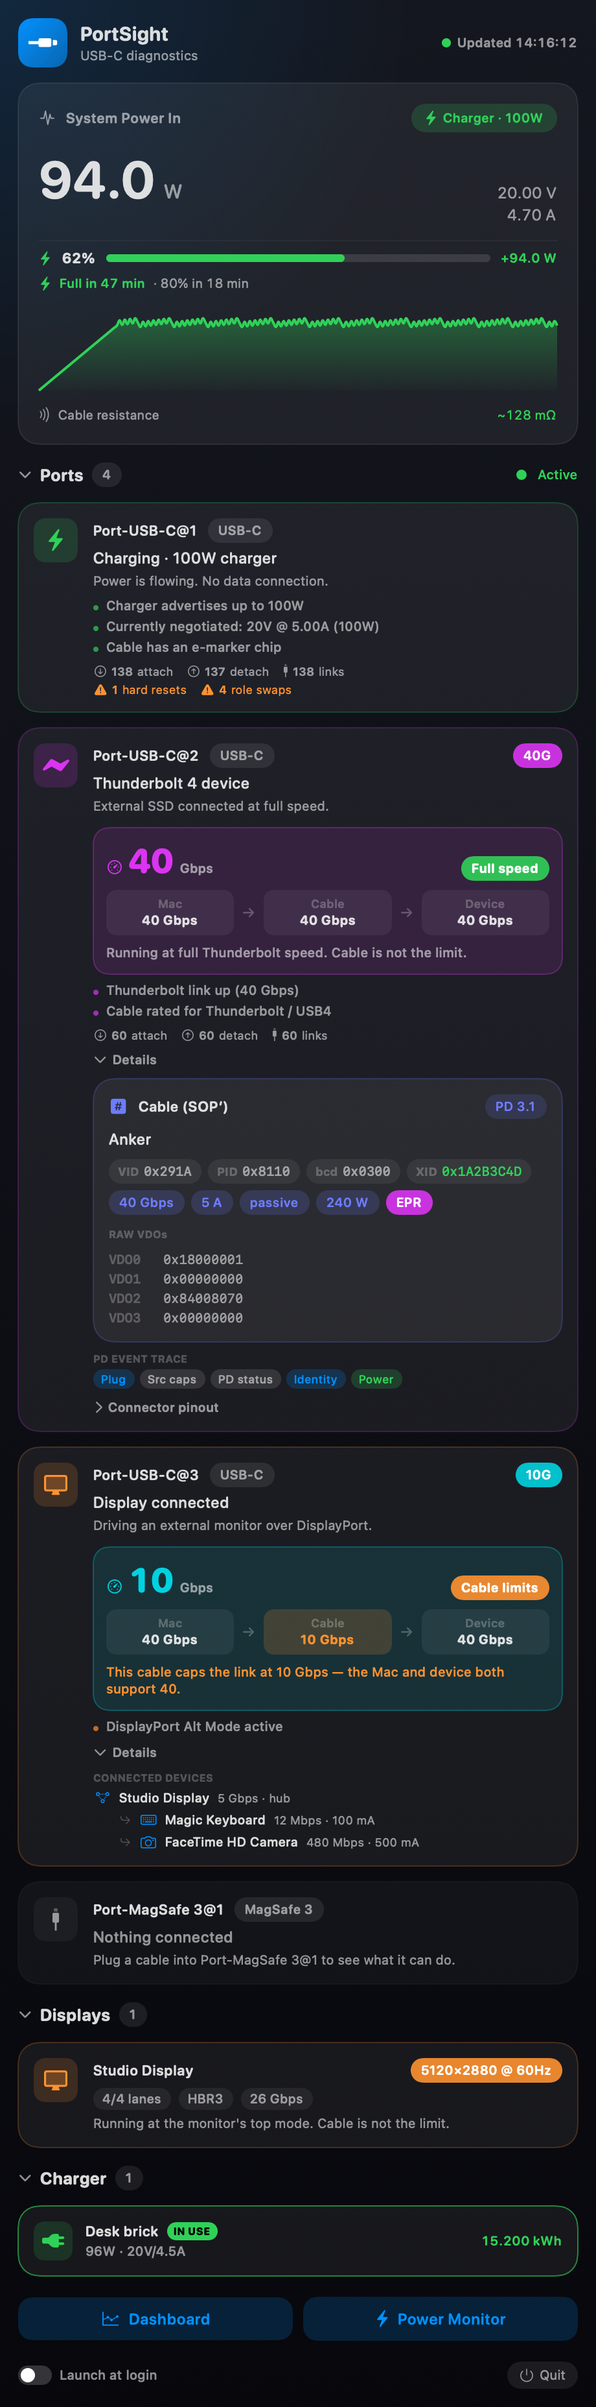
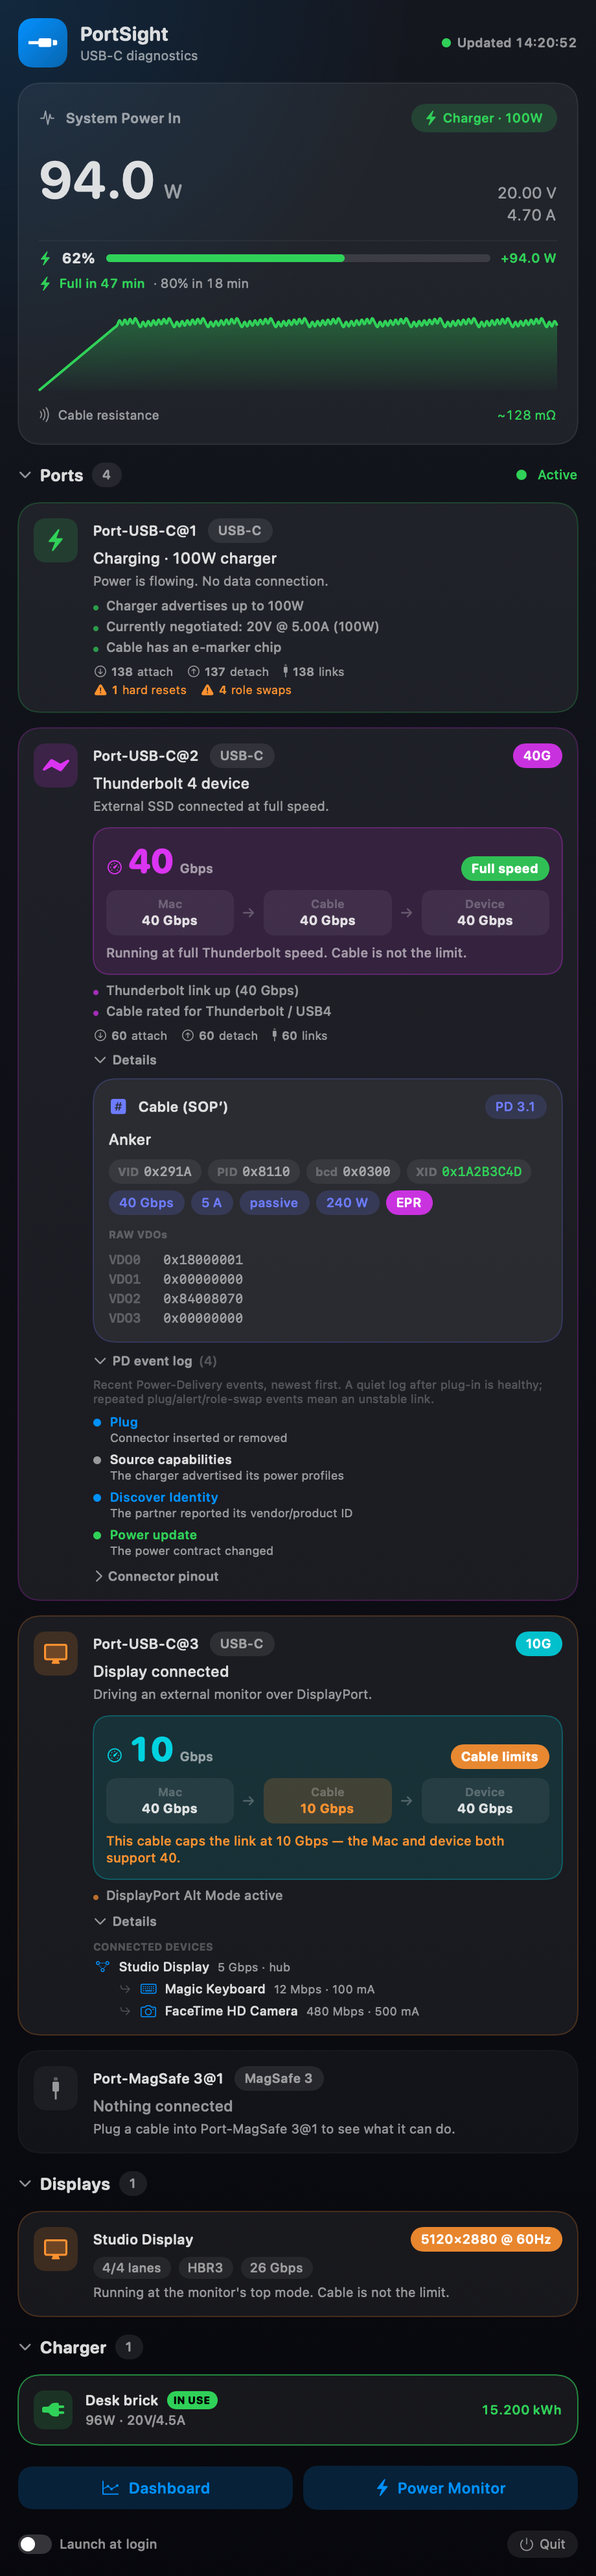
PD event log: own collapsible sub-section, verbose with plain-English descriptions

diff --git a/Sources/CableProUI/SnapshotModel.swift b/Sources/CableProUI/SnapshotModel.swift
@@ -242,6 +242,7 @@ struct PortVM: Identifiable {
 struct PortEventVM: Identifiable, Equatable {
     let id: Int
     let label: String
+    let detail: String
     let severity: SpeedVM.Severity
 }
 
@@ -535,8 +536,8 @@ public final class SnapshotModel: ObservableObject {
             let vdo = identity.map(VDOInfo.init)
             let events: [PortEventVM] = (port.portKey.flatMap { lastEventTraces[$0] }?.events ?? [])
                 .suffix(10).reversed().enumerated().map { i, e in
-                    let (label, sev) = Self.describe(e)
-                    return PortEventVM(id: i, label: label, severity: sev)
+                    let d = Self.describe(e)
+                    return PortEventVM(id: i, label: d.label, detail: d.detail, severity: d.severity)
                 }
             let devices = DeviceRowVM.rows(port.matchingDevices(from: snap.usbDevices))
             return PortVM(
@@ -617,24 +618,25 @@ public final class SnapshotModel: ObservableObject {
         }
     }
 
-    /// Map a decoded PD protocol event to a compact label + severity (#8).
-    static func describe(_ e: PDEvent) -> (String, SpeedVM.Severity) {
+    /// Map a decoded PD protocol event to a label, plain-English description,
+    /// and severity (#8).
+    static func describe(_ e: PDEvent) -> (label: String, detail: String, severity: SpeedVM.Severity) {
         switch e {
-        case .plugInsertOrRemoval: return ("Plug", .info)
-        case .prSwapComplete:      return ("PR swap", .warn)
-        case .drSwapComplete:      return ("DR swap", .warn)
-        case .sourceCapRx:         return ("Src caps", .neutral)
-        case .statusUpdate:        return ("Status", .neutral)
-        case .pdStatusUpdate:      return ("PD status", .neutral)
-        case .usb2Plug:            return ("USB2", .neutral)
-        case .powerStatusUpdate:   return ("Power", .good)
-        case .appLoaded:           return ("Init", .good)
-        case .rxIdSop:             return ("Identity", .info)
-        case .uvdmStatusUpdate:    return ("uVDM", .neutral)
-        case .uvdmEnum:            return ("uVDM enum", .neutral)
-        case .sleepWake:           return ("Sleep/Wake", .neutral)
-        case .alert:               return ("Alert", .critical)
-        case .unknown(let v):      return (String(format: "0x%02X", v), .neutral)
+        case .plugInsertOrRemoval: return ("Plug", "Connector inserted or removed", .info)
+        case .prSwapComplete:      return ("Power-role swap", "Which side supplies power was swapped", .warn)
+        case .drSwapComplete:      return ("Data-role swap", "Host/device data roles were swapped", .warn)
+        case .sourceCapRx:         return ("Source capabilities", "The charger advertised its power profiles", .neutral)
+        case .statusUpdate:        return ("Status update", "The partner reported a status change", .neutral)
+        case .pdStatusUpdate:      return ("PD status", "Power Delivery status changed", .neutral)
+        case .usb2Plug:            return ("USB 2.0 plug", "A USB 2.0 device attached", .neutral)
+        case .powerStatusUpdate:   return ("Power update", "The power contract changed", .good)
+        case .appLoaded:           return ("Controller init", "The port controller firmware started", .good)
+        case .rxIdSop:             return ("Discover Identity", "The partner reported its vendor/product ID", .info)
+        case .uvdmStatusUpdate:    return ("Vendor message", "A vendor-specific PD message (e.g. Alt Mode)", .neutral)
+        case .uvdmEnum:            return ("Vendor enumerate", "Vendor-specific enumeration", .neutral)
+        case .sleepWake:           return ("Sleep / wake", "The system slept or woke", .neutral)
+        case .alert:               return ("Alert", "Partner flagged a condition (overcurrent, temperature, battery…)", .critical)
+        case .unknown(let v):      return (String(format: "Event 0x%02X", v), "Undecoded PD event", .neutral)
         }
     }
 
@@ -736,11 +738,10 @@ public final class SnapshotModel: ObservableObject {
                                 certXIDHex: "0x1A2B3C4D", speedLabel: "40 Gbps", currentLabel: "5 A",
                                 typeLabel: "passive", maxWatts: 240, eprCapable: true,
                                 vdosHex: ["0x18000001", "0x00000000", "0x84008070", "0x00000000"]),
-                   events: [PortEventVM(id: 0, label: "Plug", severity: .info),
-                            PortEventVM(id: 1, label: "Src caps", severity: .neutral),
-                            PortEventVM(id: 2, label: "PD status", severity: .neutral),
-                            PortEventVM(id: 3, label: "Identity", severity: .info),
-                            PortEventVM(id: 4, label: "Power", severity: .good)]),
+                   events: [PortEventVM(id: 0, label: "Plug", detail: "Connector inserted or removed", severity: .info),
+                            PortEventVM(id: 1, label: "Source capabilities", detail: "The charger advertised its power profiles", severity: .neutral),
+                            PortEventVM(id: 2, label: "Discover Identity", detail: "The partner reported its vendor/product ID", severity: .info),
+                            PortEventVM(id: 3, label: "Power update", detail: "The power contract changed", severity: .good)]),
             PortVM(id: 3, portKey: "2/3", title: "Port-USB-C@3", type: "USB-C",
                    summary: PortSummary(
                        status: .displayCable,

diff --git a/Sources/CableProUI/PortCard.swift b/Sources/CableProUI/PortCard.swift
@@ -7,6 +7,7 @@ struct PortCard: View {
     // Collapsed by default live; expanded in preview (flat) so the render shows it.
     @State private var expanded = Theme.flat
     @State private var showPins = false
+    @State private var showEvents = Theme.flat   // expanded only in offscreen previews
 
     private var s: PortSummary { vm.summary }
     private var accent: Color { s.status.accent }
@@ -159,15 +160,37 @@ struct PortCard: View {
     }
 
     private var eventTrace: some View {
-        VStack(alignment: .leading, spacing: 3) {
-            Text("PD EVENT TRACE").font(.system(size: 8, weight: .bold)).foregroundStyle(.tertiary)
-            FlowLayout(spacing: 4) {
-                ForEach(vm.events) { e in
-                    Text(e.label)
-                        .font(.system(size: 9, design: .rounded).weight(.medium))
-                        .padding(.horizontal, 6).padding(.vertical, 2)
-                        .background(Capsule().fill(eventColor(e.severity).opacity(0.2)))
-                        .foregroundStyle(eventColor(e.severity))
+        VStack(alignment: .leading, spacing: 6) {
+            Button { withAnimation(.easeInOut(duration: 0.15)) { showEvents.toggle() } } label: {
+                HStack(spacing: 4) {
+                    Image(systemName: showEvents ? "chevron.down" : "chevron.right")
+                    Text("PD event log").fontWeight(.semibold)
+                    Text("(\(vm.events.count))").foregroundStyle(.tertiary)
+                    Spacer()
+                }
+                .font(.system(.caption2, design: .rounded)).foregroundStyle(.secondary)
+            }
+            .buttonStyle(.plain)
+
+            if showEvents {
+                Text("Recent Power-Delivery events, newest first. A quiet log after plug-in is healthy; repeated plug/alert/role-swap events mean an unstable link.")
+                    .font(.system(size: 9)).foregroundStyle(.tertiary)
+                    .fixedSize(horizontal: false, vertical: true)
+                VStack(alignment: .leading, spacing: 5) {
+                    ForEach(vm.events) { e in
+                        HStack(alignment: .top, spacing: 7) {
+                            Circle().fill(eventColor(e.severity))
+                                .frame(width: 6, height: 6).padding(.top, 4)
+                            VStack(alignment: .leading, spacing: 0) {
+                                Text(e.label)
+                                    .font(.system(.caption2, design: .rounded).weight(.semibold))
+                                    .foregroundStyle(eventColor(e.severity) == .secondary ? .primary : eventColor(e.severity))
+                                Text(e.detail).font(.system(size: 9)).foregroundStyle(.secondary)
+                                    .fixedSize(horizontal: false, vertical: true)
+                            }
+                            Spacer(minLength: 0)
+                        }
+                    }
                 }
             }
         }
